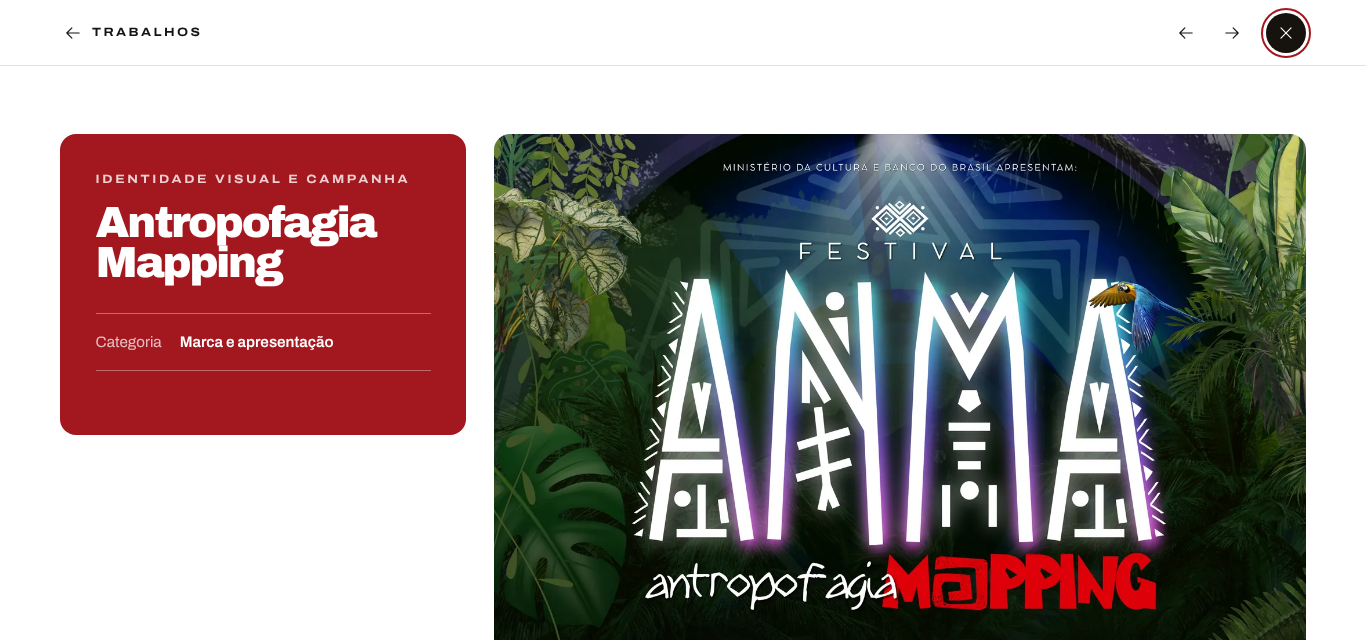
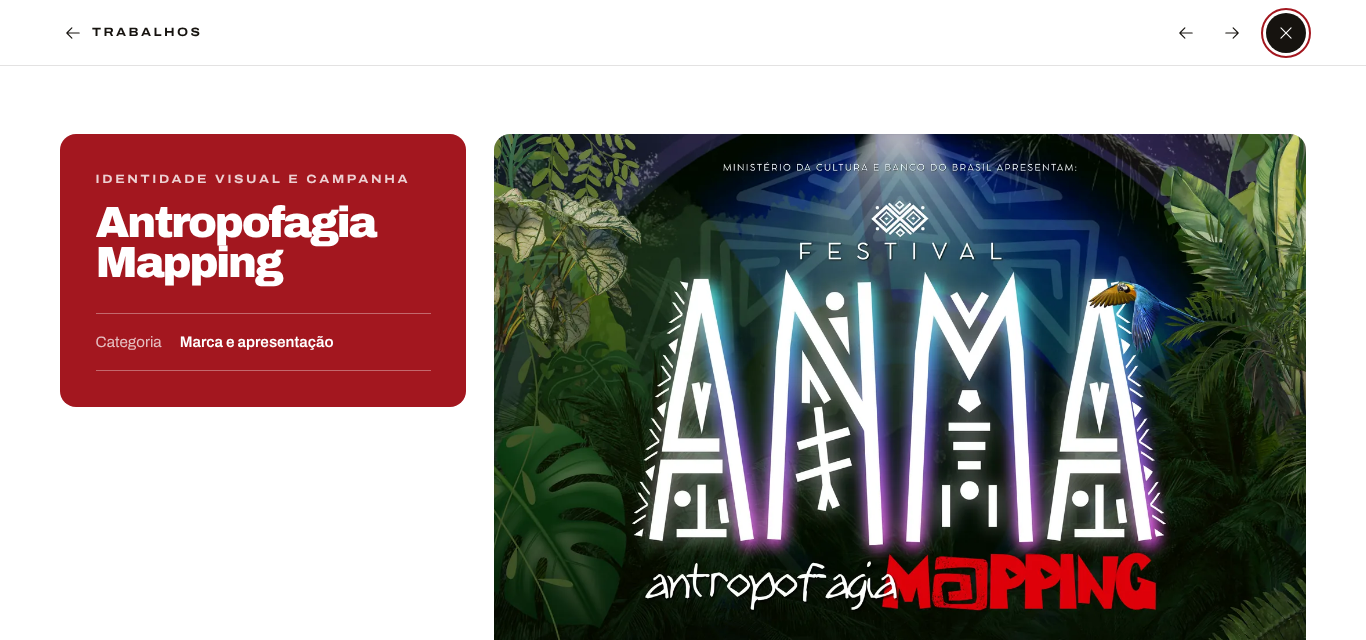
Ficha: sem espaço sobrando quando não há blocos de texto
Claude-Session: https://claude.ai/code/session_01RLZUj9rjpzXsmc93EoFHZf

Changed region(s): [[0.0307, 0.625, 0.3382, 0.6875]]

diff --git a/assets/css/visor.css b/assets/css/visor.css
@@ -165,6 +165,11 @@
   display: none;
 }
 
+/* sem blocos depois da ficha técnica, ela fecha o cartão sem espaço sobrando */
+.visor__ficha:has(.visor__blocos:empty) .visor__meta {
+  margin-bottom: 0;
+}
+
 .visor__meta-rotulo {
   color: rgba(255, 255, 255, 0.72);
 }
